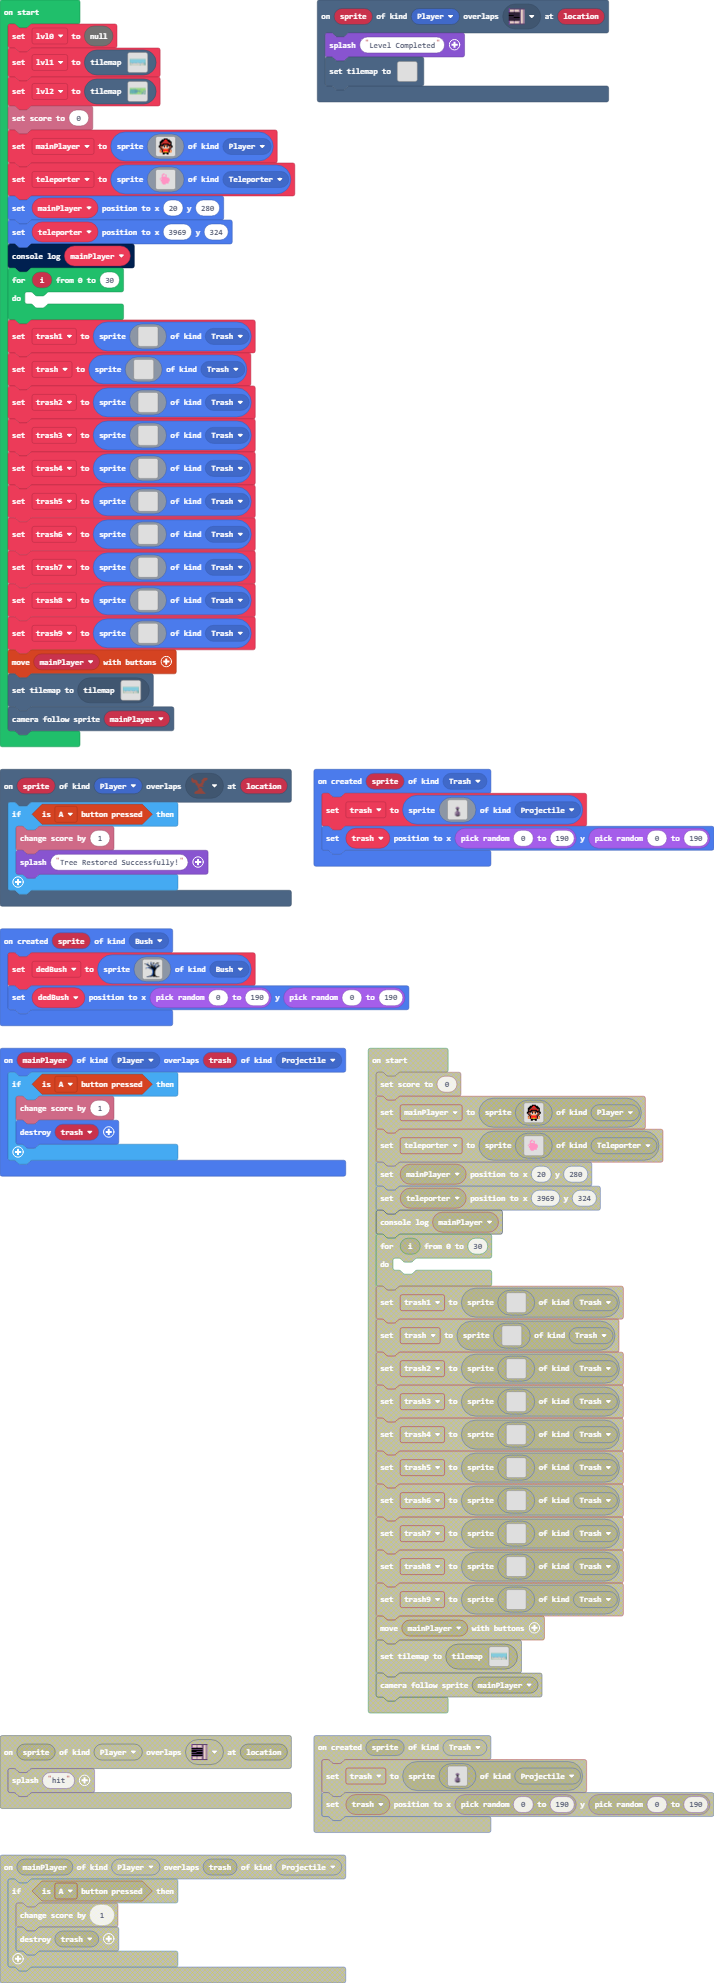
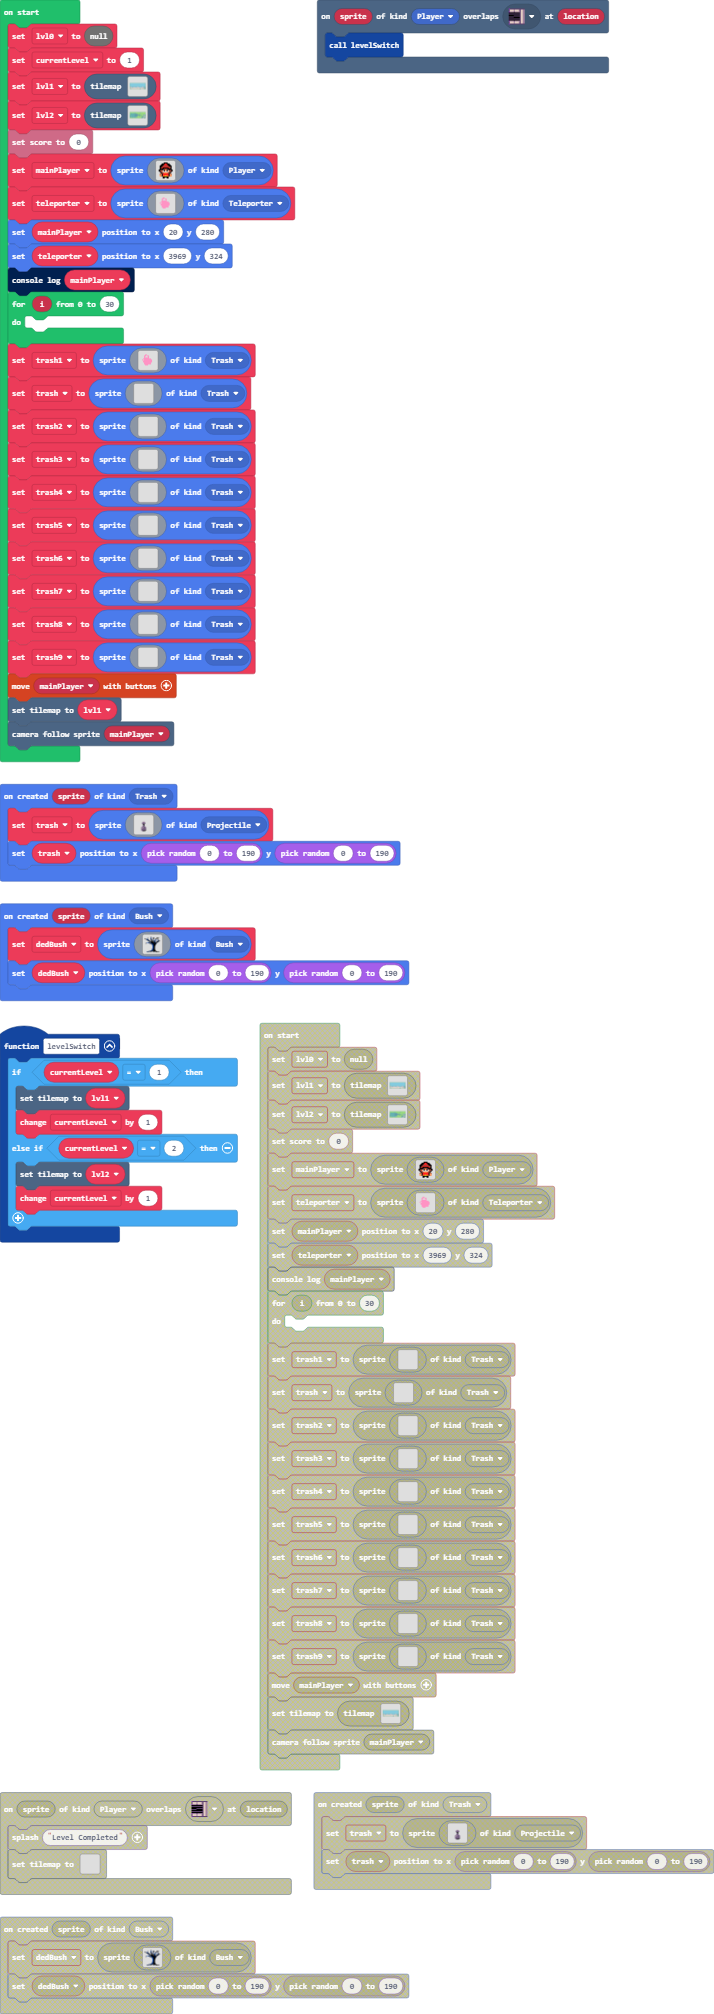
level  change

diff --git a/tilemap.g.ts b/tilemap.g.ts
@@ -19,9 +19,11 @@ namespace myTiles {
     //% fixedInstance jres blockIdentity=images._tile
     export const tile8 = image.ofBuffer(hex``);
     //% fixedInstance jres blockIdentity=images._tile
+    export const tile10 = image.ofBuffer(hex``);
+    //% fixedInstance jres blockIdentity=images._tile
     export const tile9 = image.ofBuffer(hex``);
     //% fixedInstance jres blockIdentity=images._tile
-    export const tile10 = image.ofBuffer(hex``);
+    export const tile11 = image.ofBuffer(hex``);
 
     helpers._registerFactory("tilemap", function(name: string) {
         switch(helpers.stringTrim(name)) {
@@ -72,34 +74,6 @@ namespace myTiles {
 2..............................................................2
 2222222222222222222222222222222222222222222222222222222222222222
 `, [myTiles.transparency16,sprites.castle.tilePath5,myTiles.tile1,myTiles.tile2,myTiles.tile3,myTiles.tile4,sprites.builtin.forestTiles1,sprites.builtin.forestTiles2,sprites.builtin.forestTiles3,sprites.builtin.forestTiles4,sprites.builtin.forestTiles0,sprites.castle.tilePath8,sprites.castle.tilePath2,sprites.castle.tilePath3,sprites.castle.tilePath7,sprites.castle.tilePath1,sprites.castle.tilePath9,sprites.dungeon.doorClosedEast], TileScale.Sixteen);
-            case "level0":
[1 lines of base64/hex data omitted]
-2222222222222222222222222222222222222222222222222222222222222222
-2..............................................................2
-2..............................................................2
-2..............................................................2
-2..............................................................2
-2..............................................................2
-2..................................2...........................2
-2...................................22.........................2
-2...................................222........................2
-2....................................22222.....................2
-2........................................22....................2
-2........................................22....................2
-2.......................................22.....................2
-2.....................................222222................2222
-2....................................22...222...................
-2...................................22.....2222.............2222
-2............................................22222.............2
-2...............................................22222..........2
-2..................................................2222222222222
-2..............................................................2
-2..........................................................22222
-2..............................................................2
-2..............................................................2
-2..............................................................2
-2222222222222222222222222222222222222222222222222222222222222222
-`, [myTiles.transparency16,sprites.castle.tileGrass2,sprites.builtin.forestTiles1,sprites.builtin.forestTiles2,sprites.builtin.forestTiles3,sprites.castle.tileGrass1,sprites.castle.tileGrass3,sprites.castle.tileDarkGrass3,sprites.castle.tileDarkGrass2,sprites.castle.tileDarkGrass1,sprites.swamp.swampTile1,sprites.builtin.forestTiles0,sprites.castle.tilePath5,sprites.castle.tilePath2,sprites.castle.tilePath8,sprites.castle.tilePath3,sprites.castle.tilePath7,sprites.dungeon.doorClosedEast,sprites.castle.tilePath4,sprites.castle.tilePath6,sprites.builtin.forestTiles4,sprites.castle.tilePath9,sprites.castle.tilePath1,myTiles.tile9,myTiles.tile10], TileScale.Sixteen);
             case "level5":
             case "level5":return tiles.createTilemap(hex`1000100000000000000000000000000000000000000000000000000000000000000000000000000000000000000000000000000000000000000000000000000000000000000000000000000000000000000000000000000000000000000000000000000000000000000000000000000000000000000000000000000000000000000000000000000000000000000000000000000000000000000000000000000000000000000000000000000000000000000000000000000000000000000000000000000000000000000000000000000000000000000000000000000000000000000000000000000000000000000000000000000000000000000000000000000000000000`, img`
 . . . . . . . . . . . . . . . . 
@@ -157,6 +131,34 @@ namespace myTiles {
 . . . . . . . . . . . . . . . . 
 . . . . . . . . . . . . . . . . 
 `, [], -Infinity);
+            case "level0":
[1 lines of base64/hex data omitted]
+2222222222222222222222222222222222222222222222222222222222222222
+2..............................................................2
+2..............................................................2
+2..............................................................2
+2..............................................................2
+2..............................................................2
+2..................................2...........................2
+2...................................22.........................2
+2...................................222........................2
+2....................................22222.....................2
+2........................................22....................2
+2........................................22....................2
+2.......................................22.....................2
+2.....................................222222................2222
+2....................................22...222...................
+2...................................22.....2222.............2222
+2............................................22222.............2
+2...............................................22222..........2
+2..................................................2222222222222
+2..............................................................2
+2..........................................................22222
+2..............................................................2
+2..............................................................2
+2..............................................................2
+2222222222222222222222222222222222222222222222222222222222222222
+`, [myTiles.transparency16,sprites.castle.tileGrass2,sprites.builtin.forestTiles1,sprites.builtin.forestTiles2,sprites.builtin.forestTiles3,sprites.castle.tileGrass1,sprites.castle.tileGrass3,sprites.castle.tileDarkGrass3,sprites.castle.tileDarkGrass2,sprites.castle.tileDarkGrass1,sprites.swamp.swampTile1,sprites.builtin.forestTiles0,sprites.castle.tilePath5,sprites.castle.tilePath2,sprites.castle.tilePath8,sprites.castle.tilePath3,sprites.castle.tilePath7,sprites.dungeon.doorClosedEast,sprites.castle.tilePath4,sprites.castle.tilePath6,sprites.builtin.forestTiles4,sprites.castle.tilePath9,sprites.castle.tilePath1,myTiles.tile9,myTiles.tile11], TileScale.Sixteen);
         }
         return null;
     })
@@ -180,10 +182,12 @@ namespace myTiles {
             case "tile7":return tile7;
             case "myTile1":
             case "tile8":return tile8;
-            case "daTree":
-            case "tile9":return tile9;
             case "dedTree":
             case "tile10":return tile10;
+            case "daTree":
+            case "tile9":return tile9;
+            case "daTree0":
+            case "tile11":return tile11;
         }
         return null;
     })

diff --git a/main.ts b/main.ts
@@ -4,8 +4,7 @@ namespace SpriteKind {
     export const Bush = SpriteKind.create()
 }
 scene.onOverlapTile(SpriteKind.Player, assets.tile`doorClosedEast`, function (sprite, location) {
-    game.splash("Level Completed")
-    tiles.setTilemap(lvl2)
+    levelSwitch()
 })
 sprites.onCreated(SpriteKind.Bush, function (sprite) {
     dedBush = sprites.create(img`
@@ -66,7 +65,7 @@ sprites.onCreated(SpriteKind.Trash, function (sprite) {
         ........cfff........
         ....................
         ....................
-        `, SpriteKind.Projectile)
+    `, SpriteKind.Projectile)
     trash.setPosition(randint(0, 190), randint(0, 190))
 })
 scene.onOverlapTile(SpriteKind.Player, assets.tile`dedTree`, function (sprite, location) {
@@ -75,6 +74,15 @@ scene.onOverlapTile(SpriteKind.Player, assets.tile`dedTree`, function (sprite, l
         game.splash("Tree Restored Successfully!")
     }
 })
+function levelSwitch () {
+    if (currentLevel == 1) {
+        tiles.setCurrentTilemap(lvl1)
+        currentLevel += 1
+    } else if (currentLevel == 2) {
+        tiles.setCurrentTilemap(lvl2)
+        currentLevel += 1
+    }
+}
 sprites.onOverlap(SpriteKind.Player, SpriteKind.Projectile, function (mainPlayer, trash) {
     if (controller.A.isPressed()) {
         info.changeScoreBy(1)
@@ -83,9 +91,13 @@ sprites.onOverlap(SpriteKind.Player, SpriteKind.Projectile, function (mainPlayer
 })
 let dedBush: Sprite = null
 let trash: Sprite = null
+let lvl2: tiles.TileMapData = null
+let lvl1: tiles.TileMapData = null
+let currentLevel = 0
 let lvl0 = null
-let lvl1 = tilemap`level4`
-let lvl2 = tilemap`level0`
+currentLevel = 1
+lvl1 = tilemap`level4`
+lvl2 = tilemap`level0`
 info.setScore(0)
 let mainPlayer = sprites.create(img`
     . . . . . . f f f f . . . . . . 
@@ -130,26 +142,22 @@ for (let i = 0; i <= 30; i++) {
 	
 }
 let trash1 = sprites.create(img`
-    ....................
-    ....................
-    ....................
-    ....................
-    ....................
-    ....................
-    ....................
-    ....................
-    ....................
-    ....................
-    ....................
-    ....................
-    ....................
-    ....................
-    ....................
-    ....................
-    ....................
-    ....................
-    ....................
-    ....................
+    . . . . . . . . . . . . . . . . 
+    . . . . . . . . . . . . . . . . 
+    . . . . . 3 3 . . . . . . . . . 
+    . . . . 3 3 . 3 3 . . . . . . . 
+    . . . . 3 . . . 3 . . . . . . . 
+    . . . . 3 3 3 3 3 . . . . . . . 
+    . . . 3 3 3 3 3 3 3 3 . . . . . 
+    . . 3 . 3 3 3 3 3 3 3 3 . . . . 
+    . . . 3 3 3 3 3 3 3 3 3 . . . . 
+    . . . 3 3 3 3 3 3 3 3 3 . . . . 
+    . . . . 3 3 3 3 3 3 3 . . . . . 
+    . . . . 3 3 3 3 3 3 3 . . . . . 
+    . . . . . 3 3 3 . . . . . . . . 
+    . . . . . . . . . . . . . . . . 
+    . . . . . . . . . . . . . . . . 
+    . . . . . . . . . . . . . . . . 
     `, SpriteKind.Trash)
 trash = sprites.create(img`
     ....................
@@ -350,5 +358,5 @@ let trash9 = sprites.create(img`
     ....................
     `, SpriteKind.Trash)
 controller.moveSprite(mainPlayer)
-tiles.setCurrentTilemap(tilemap`level4`)
+tiles.setCurrentTilemap(lvl1)
 scene.cameraFollowSprite(mainPlayer)
